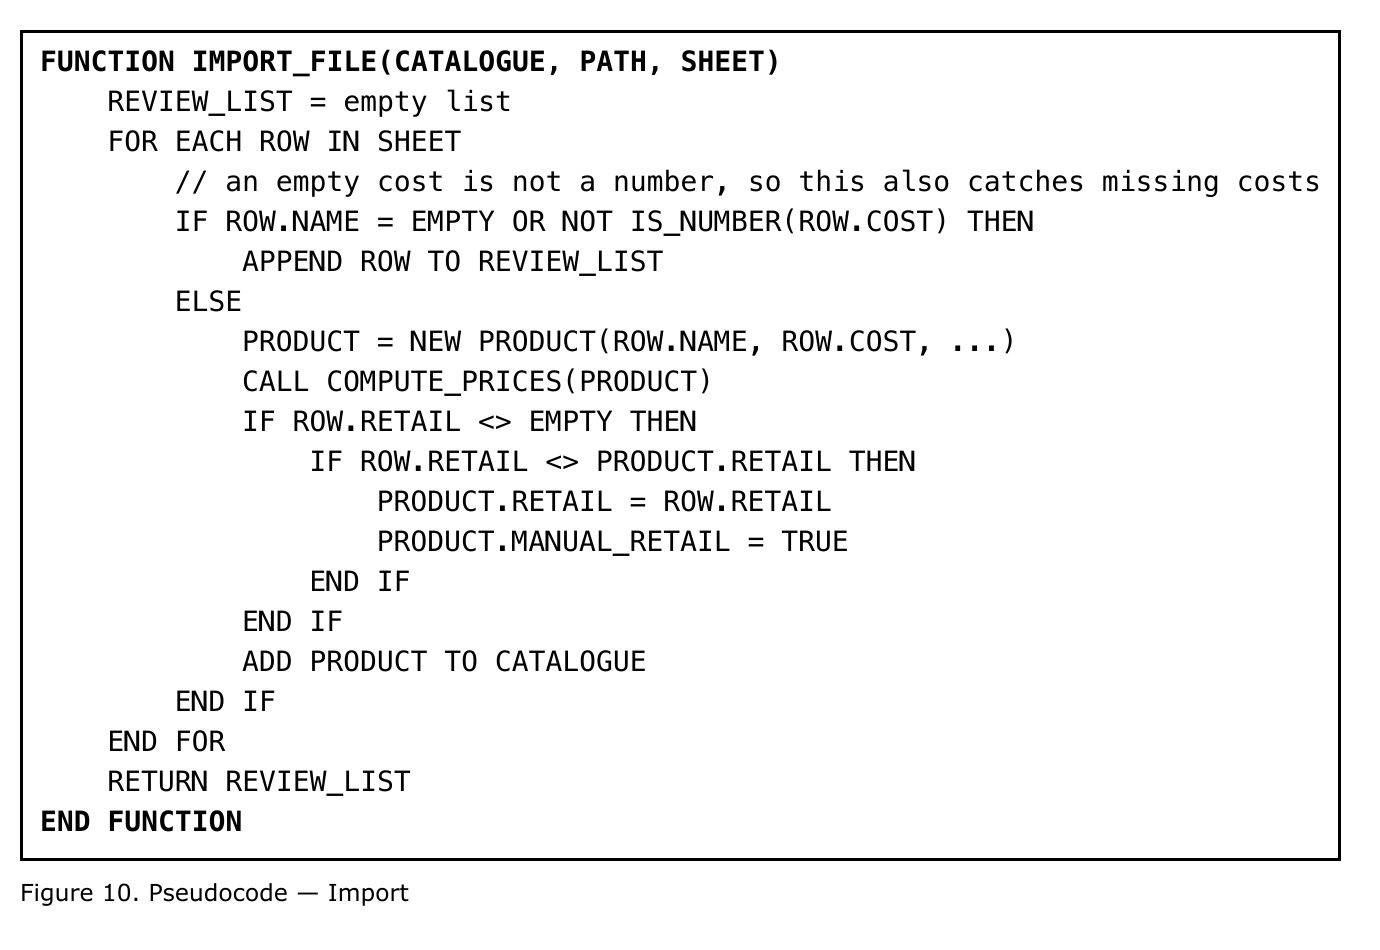
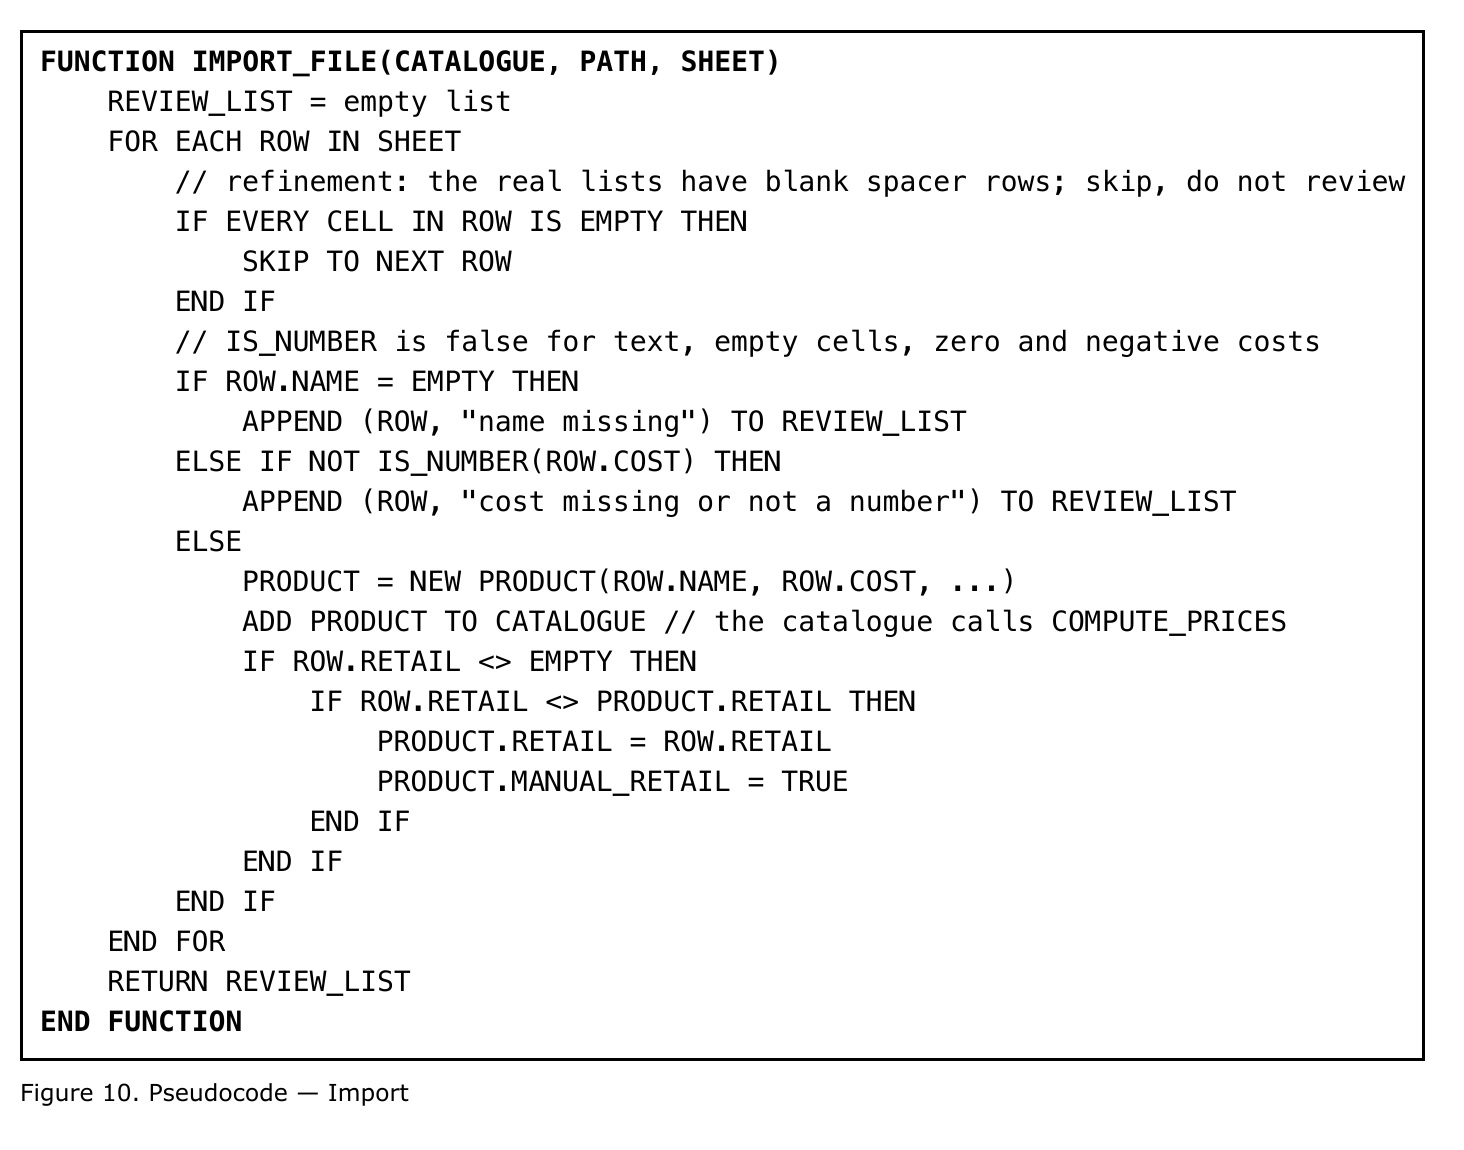
Figures 4, 7, 10 rev: blank-row skip (RoT 17), Catalogue owns PricingModule, edit(product, changes), Product accessors, ImportModule holds catalogue

Changed region(s): [[0.0, 0.0, 0.9971, 0.9768], [0.6855, 0.4274, 0.8413, 0.4579]]

diff --git a/figures/generate_figure4_import_module.py b/figures/generate_figure4_import_module.py
@@ -37,52 +37,61 @@ def predefined2(c, title, subtitle, cx, cy):
 
 
 def build_import():
-    c = Chart(800, 960)
+    # Rev 2026-09-13 (RoT 17): "Blank row?" decision added after "Read next
+    # row" - spacer rows in the real lists are skipped instead of reviewed.
+    c = Chart(800, 1060)
     cx = 430
 
     # vertical spine
     t_start = c.terminator("Import module", cx, 40)                      # N1
     in_file = c.io("Select Excel file", cx, 110)                         # N2
     p_read = c.process("Read next row", cx, 185)                         # N3
-    d_valid = c.decision("Fields valid?", cx, 270)                       # N4
-    p_create = c.process("Create register", cx, 355)                     # N6
+    d_blank = c.decision("Blank row?", cx, 270)                          # N3b
+    d_valid = c.decision("Fields valid?", cx, 360)                       # N4
+    p_create = c.process("Create register", cx, 445)                     # N6
     b_price = predefined2(c, "Pricing module",
-                          "computes Pw and Pr", cx, 440)                 # N7
-    d_retail = c.decision("Retail price in row?", cx, 535)               # N8
-    d_match = c.decision("Row retail = formula?", cx, 635)               # N9
-    d_more = c.decision("More rows?", cx, 760)                           # N11
-    out_list = c.io("Display review list", cx, 845)                      # N12
-    t_ret = c.terminator("Return", cx, 915)                              # N13
+                          "computes Pw and Pr", cx, 530)                 # N7
+    d_retail = c.decision("Retail price in row?", cx, 625)               # N8
+    d_match = c.decision("Row retail = formula?", cx, 725)               # N9
+    d_more = c.decision("More rows?", cx, 850)                           # N11
+    out_list = c.io("Display review list", cx, 935)                      # N12
+    t_ret = c.terminator("Return", cx, 1005)                             # N13
 
     # side nodes
-    p_review = c.process("Add to review list", 650, 270)                 # N5
+    p_review = c.process("Add to review list", 650, 360)                 # N5
     p_manual = process2(c, "Set manual retail",
-                        "keeps row value", 140, 635)                     # N10
+                        "keeps row value", 140, 725)                     # N10
 
     spine(c, t_start, in_file)
     spine(c, in_file, p_read)
-    spine(c, p_read, d_valid)
+    spine(c, p_read, d_blank)
+
+    # N3b: yes -> far right, down to N11 (merges with the N5 exit), no -> N4
+    c.line([right(d_blank), (760, d_blank["cy"]), (760, d_more["cy"]),
+            (p_review["cx"], d_more["cy"])])
+    c.branch_label("yes", right(d_blank)[0] + 14, d_blank["cy"] - 12, "start")
+    c.arrow([bottom(d_blank), top(d_valid)], "no", cx + 8, 320, "start")
 
     # N4: no -> review list (right), yes -> create register (spine)
     c.arrow([right(d_valid), left(p_review)],
-            "no", (right(d_valid)[0] + left(p_review)[0]) / 2, 258)
-    c.arrow([bottom(d_valid), top(p_create)], "yes", cx + 8, 320, "start")
+            "no", (right(d_valid)[0] + left(p_review)[0]) / 2, 348)
+    c.arrow([bottom(d_valid), top(p_create)], "yes", cx + 8, 410, "start")
 
     spine(c, p_create, b_price)
     spine(c, b_price, d_retail)
 
     # N8: yes -> compare retail (spine), no -> bypass right into spine above N11
-    c.arrow([bottom(d_retail), top(d_match)], "yes", cx + 8, 585, "start")
-    c.line([right(d_retail), (590, d_retail["cy"]), (590, 700), (cx, 700)])
+    c.arrow([bottom(d_retail), top(d_match)], "yes", cx + 8, 675, "start")
+    c.line([right(d_retail), (590, d_retail["cy"]), (590, 790), (cx, 790)])
     c.branch_label("no", right(d_retail)[0] + 14, d_retail["cy"] - 12, "start")
 
     # N9: no -> set manual retail (left), yes -> spine down to N11
     c.arrow([left(d_match), right(p_manual)],
-            "no", (left(d_match)[0] + right(p_manual)[0]) / 2, 623)
-    c.arrow([bottom(d_match), top(d_more)], "yes", cx + 8, 690, "start")
+            "no", (left(d_match)[0] + right(p_manual)[0]) / 2, 713)
+    c.arrow([bottom(d_match), top(d_more)], "yes", cx + 8, 780, "start")
 
     # N10 exit merges back into the spine above N11
-    c.line([bottom(p_manual), (p_manual["cx"], 712), (cx, 712)])
+    c.line([bottom(p_manual), (p_manual["cx"], 802), (cx, 802)])
 
     # N5 exit routes down the right side into N11's right vertex
     c.line([bottom(p_review), (p_review["cx"], d_more["cy"])])
@@ -92,7 +101,7 @@ def build_import():
     c.arrow([left(d_more), (30, d_more["cy"]), (30, p_read["cy"]),
              left(p_read)], "yes", left(d_more)[0] - 12, d_more["cy"] - 12,
             "end")
-    c.arrow([bottom(d_more), top(out_list)], "no", cx + 8, 808, "start")
+    c.arrow([bottom(d_more), top(out_list)], "no", cx + 8, 898, "start")
 
     spine(c, out_list, t_ret)
     return c

diff --git a/figures/generate_figure7_class_diagram.py b/figures/generate_figure7_class_diagram.py
@@ -119,8 +119,8 @@ def build():
                           cx=880, top=60)
     catalogue = d.class_box(
         "Catalogue",
-        ["-products : list of Product"],
-        ["+add(product)", "+edit(product)", "+delete(product)",
+        ["-products : list of Product", "-pricing : PricingModule"],
+        ["+add(product)", "+edit(product, changes)", "+delete(product)",
          "+get_category(name)", "+products()"],
         cx=510, top=300)
     # Rev 2026-09-10 (Criterion D encapsulation fix): Product serializes itself
@@ -130,16 +130,22 @@ def build():
         ["-name : str", "-category : str", "-supplier : str", "-cost : float",
          "-wholesale : float", "-retail : float", "-manual_retail : bool",
          "-photo_path : str"],
-        ["+to_dict()", "+from_dict(data)", "+category()"],
+        ["+to_dict()", "+from_dict(data)", "+category()", "+cost()",
+         "+manual_retail()", "+set_cost(value)", "+set_wholesale(value)",
+         "+set_retail(value)", "+set_manual_retail(value)"],
         cx=880, top=280)
     search = d.class_box("SearchModule", [], ["+search(query) list"],
                          cx=150, top=300)
     export = d.class_box("ExportModule", [], ["+export_pdf(category, path)"],
                          cx=160, top=470)
-    imp = d.class_box("ImportModule", ["-review_list : list"],
+    # Rev 2026-09-13 (RoT 16-17): Catalogue owns the PricingModule and prices on
+    # add / cost edit; Product shows its getters and setters; ImportModule keeps
+    # the Catalogue it adds into and no longer calls pricing itself.
+    imp = d.class_box("ImportModule",
+                      ["-catalogue : Catalogue", "-review_list : list"],
                       ["+import_file(path, sheet)"], cx=510, top=600)
     pricing = d.class_box("PricingModule", [], ["+compute(product)"],
-                          cx=880, top=600)
+                          cx=880, top=660)
 
     # 1. Catalogue "1" *-- "0..*" Product : contains (composition)
     hy = 350
@@ -155,24 +161,20 @@ def build():
     d.label(709, 200, "saves and loads", "start")
 
     # 3. Catalogue ..> PricingModule : calls on cost change
-    d.polyline([(catalogue["right"], 420), (710, 420), (710, 615),
-                (pricing["left"], 615)], dashed=True, arrow=True)
-    d.label(719, 560, "calls on cost change", "start")
+    d.polyline([(catalogue["right"], 420), (710, 420), (710, 696),
+                (pricing["left"], 696)], dashed=True, arrow=True)
+    d.label(719, 650, "calls on add / cost change", "start")
 
     # 4. PricingModule ..> Product : sets Pw and Pr
     d.polyline([(pricing["cx"], pricing["top"]),
                 (pricing["cx"], product["bottom"])], dashed=True, arrow=True)
-    d.label(pricing["cx"] + 9, 572, "sets Pw and Pr", "start")
+    d.label(pricing["cx"] + 9, 645, "sets Pw and Pr", "start")
 
     # 5. ImportModule ..> Catalogue : adds products
     d.polyline([(imp["cx"], imp["top"]), (imp["cx"], catalogue["bottom"])],
                dashed=True, arrow=True)
     d.label(imp["cx"] + 9, 520, "adds products", "start")
 
-    # 6. ImportModule ..> PricingModule : calls per row
-    d.polyline([(imp["right"], 643), (pricing["left"], 643)],
-               dashed=True, arrow=True)
-    d.label((imp["right"] + pricing["left"]) / 2, 635, "calls per row")
 
     # 7. SearchModule ..> Catalogue : reads
     d.polyline([(search["right"], 336), (catalogue["left"], 336)],

diff --git a/figures/generate_figures8-10_pseudocode.py b/figures/generate_figures8-10_pseudocode.py
@@ -97,19 +97,24 @@ END FUNCTION"""
 IMPORT = """FUNCTION IMPORT_FILE(CATALOGUE, PATH, SHEET)
     REVIEW_LIST = empty list
     FOR EACH ROW IN SHEET
-        // an empty cost is not a number, so this also catches missing costs
-        IF ROW.NAME = EMPTY OR NOT IS_NUMBER(ROW.COST) THEN
-            APPEND ROW TO REVIEW_LIST
+        // refinement: the real lists have blank spacer rows; skip, do not review
+        IF EVERY CELL IN ROW IS EMPTY THEN
+            SKIP TO NEXT ROW
+        END IF
+        // IS_NUMBER is false for text, empty cells, zero and negative costs
+        IF ROW.NAME = EMPTY THEN
+            APPEND (ROW, "name missing") TO REVIEW_LIST
+        ELSE IF NOT IS_NUMBER(ROW.COST) THEN
+            APPEND (ROW, "cost missing or not a number") TO REVIEW_LIST
         ELSE
             PRODUCT = NEW PRODUCT(ROW.NAME, ROW.COST, ...)
-            CALL COMPUTE_PRICES(PRODUCT)
+            ADD PRODUCT TO CATALOGUE     // the catalogue calls COMPUTE_PRICES
             IF ROW.RETAIL <> EMPTY THEN
                 IF ROW.RETAIL <> PRODUCT.RETAIL THEN
                     PRODUCT.RETAIL = ROW.RETAIL
                     PRODUCT.MANUAL_RETAIL = TRUE
                 END IF
             END IF
-            ADD PRODUCT TO CATALOGUE
         END IF
     END FOR
     RETURN REVIEW_LIST

diff --git a/import_module.py b/import_module.py
@@ -31,4 +31,3 @@ class ImportModule:
             return float(value) > 0
         except (ValueError, TypeError):
             return False
-
